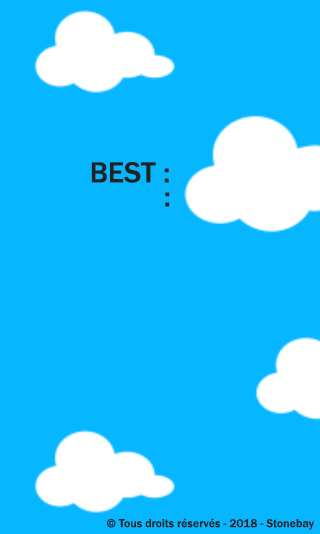
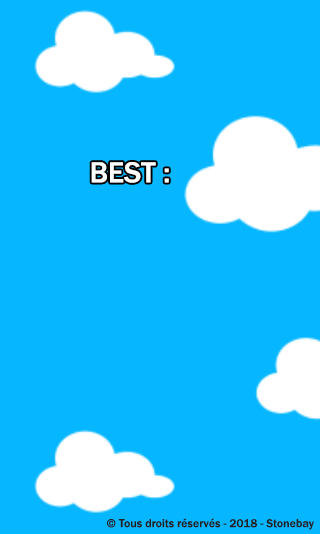
Ajouts de enemies + tire etc

Changed region(s): [[0.2812, 0.2996, 0.5312, 0.3895]]

diff --git a/www/src/Game.js b/www/src/Game.js
@@ -13,6 +13,7 @@ Ball.Game.prototype = {
 		lock = 1;
 		lock22 = 1;
 		lock21 = 0;
+		ammo = 10;
 		rec1 = this.game.add.graphics(0,0);
 		rec1.beginFill(0xffffff);
 		rec1.drawRect(0, 0, 160, 534);
@@ -33,30 +34,41 @@ Ball.Game.prototype = {
 		}
 		if(!pieces){
 			pieces = 0;
-			text3 = this.add.bitmapText(230, 30, 'myfont', '0', 30);
+			text3 = this.add.text(225, 25, '0', { font: '27px Arial Black', fill: '#FBDE12', strokeThickness :'4',fontWeight:'bold',boundsAlignH: 'right',boundsAlignV: 'top'});
 		}
 		else{
-			text3 = this.add.bitmapText(230, 30, 'myfont', localStorage.pieces, 30);
+			text3 = this.add.text(225, 25, localStorage.pieces, { font: '27px Arial Black', fill: '#FBDE12', strokeThickness :'4',fontWeight:'bold',boundsAlignH: 'right',boundsAlignV: 'top'});
 		}
-		text = this.add.bitmapText(5, 5, 'myfont', '0', 60);
-		text2 = this.add.bitmapText(230, 1, 'myfont', highscore, 32);
+		text3.setTextBounds(0,0,0,0);
+		text = this.add.text(5, -10, '0', { font: '60px Arial', fill: '#fff', strokeThickness :'6',fontWeight:'bold'  });
+		text2 = this.add.text(230, -3, highscore, { font: '27px Arial Black', fill: '#06b6ff', strokeThickness :'4',fontWeight:'bold'  });
 		best = this.add.text(10, 60, ' ');
 		best.scale.setTo(0.5);
-		text3.tint = 0xaf9e00;
-		coin2 = this.add.sprite(193, 35, 'coin');
-		// coin2.animations.add('turn2', [0,1,2,3,4,5], 9, true);
-		// coin2.play('turn2');
+		coin2 = this.add.sprite(230, 38, 'coin');
+		coin2.animations.add('turn2', [0,1,2,3,4,5], 9, true);
+		coin2.play('turn2');
 		coin2.smoothed = false;
+		text4 = this.add.text(20, 75, ammo, { font: '22px Arial', fill: '#000',boundsAlignH: 'right',boundsAlignV: 'top'});
+		text4.setTextBounds(0,0,0,0);
+		ammoAff = this.add.sprite(3,85,'particle');
+		ammoAff.scale.setTo(1.3);
 		
 		this.physics.startSystem(Phaser.Physics.ARCADE);
 		this.time.desiredFps = 60;
 		this.physics.arcade.gravity.y = 700;
 		
-		coin = this.add.sprite(16+this.getRandomInt(304), 70+this.getRandomInt(403), 'coin');
+		coin = this.add.sprite(400, 70+this.getRandomInt(403), 'coin');
 		this.physics.arcade.enable(coin);
 		coin.body.allowGravity = false;
 		coin.animations.add('turn', [0,1,2,3,4,5], 9, true);
 		coin.play('turn');
+		this.game.time.events.add(5000+Math.floor(Math.random() * Math.floor(5000)), function() {coin.x = 16+Math.floor(Math.random() * Math.floor(304));},coin)
+		
+		am = this.add.sprite(400, 70+this.getRandomInt(403), 'particle');
+		this.physics.arcade.enable(am);
+		am.body.allowGravity = false;
+		am.scale.setTo(1.5);
+		this.game.time.events.add(5000+Math.floor(Math.random() * Math.floor(5000)), function() {am.x=16+Math.floor(Math.random() * Math.floor(304))},am)
 		
 		player = this.add.sprite(10, 0, 'player');
 		mult = (skin-1)*12;
@@ -75,6 +87,17 @@ Ball.Game.prototype = {
 		
 		cursors = this.input.keyboard.createCursorKeys();
 		player.body.velocity.x = -300;
+		
+		enemy = this.add.sprite(500, 0, 'player');
+		rightEnemy = enemy.animations.add('rightEnemy', [0], 0, true);
+		leftEnemy = enemy.animations.add('leftEnemy', [6], 0, true);
+		enemy.smoothed = true;
+		enemy.tint = 0xFF5555 ;
+		enemy.scale.set(1.5);
+		this.physics.arcade.enable(enemy);
+		enemy.checkWorldBounds = true;
+		enemy.events.onOutOfBounds.add(function() {this.game.time.events.add(5000+Math.floor(Math.random() * Math.floor(5000)), this.spawnEnemy,enemy)}, this);
+
 		
 		platforms = this.add.group();
 		ledge = platforms.create(0, 52, 'platform');
@@ -101,8 +124,7 @@ Ball.Game.prototype = {
 		weapon.bulletSpeed = 600;
 		weapon.fireRate = 100;
 		weapon.trackSprite(player, 15, 15, false);
-		weapon.bulletGravity.y = -700;
-
+		weapon.bulletGravity.y = -500;
 	},
 	listener1: function() {
 		if(player.body.touching.down && player.x >168){
@@ -113,7 +135,11 @@ Ball.Game.prototype = {
 			}
 		}
 		else{
-			weapon.fire();
+			if(ammo>0){
+				weapon.fire();
+				ammo--;
+				text4.setText(ammo);
+			}
 		}
 	},
 	listener2: function() {
@@ -125,7 +151,11 @@ Ball.Game.prototype = {
 			}
 		}
 		else{
-			weapon.fire();
+			if(ammo>0){
+				weapon.fire();
+				ammo--;
+				text4.setText(ammo);
+			}
 		}
 	},
 	createPlat: function() {
@@ -147,15 +177,16 @@ Ball.Game.prototype = {
 		this.game.time.events.add(time, this.createPlat,this);
 	},
 	onCollision: function(piece) {
-		if(coin.alpha == 1){
-			pieces += 1;
-			text3.setText(pieces);
-			emitter2.x = piece.x;
-			emitter2.y = piece.y+30;
-			emitter2.start(true, 2000, null, 10);
-			piece.x = 16+this.getRandomInt(304);
-			piece.y = 70+this.getRandomInt(403);
-		}
+		pieces += 1;
+		text3.setText(pieces);
+		emitter2.x = piece.x;
+		emitter2.y = piece.y;
+		emitter2.start(true, 2000, null, 10);
+		piece.x=400;
+		this.game.time.events.add(5000+Math.floor(Math.random() * Math.floor(5000)),function(){
+					piece.x = 16+Math.floor(Math.random() * Math.floor(304));
+					piece.y = 70+Math.floor(Math.random() * Math.floor(403));
+			},am);
 	},
 	checkOverlap: function(spriteA,spriteB) {
 		var boundsA = spriteA.getBounds();
@@ -169,20 +200,37 @@ Ball.Game.prototype = {
 	onCollisionLedge: function(plr,platform) {
 		if(platform.tint==16777215&& player.body.touching.down){
 			platform.tint = 0x1FBDFF;
-			emitter.x = player.x;
-			emitter.y = player.y+30;
-			emitter.start(true, 2000, null, 10);
 			score++;
 			text.setText(score);
+		}
+	},
+	spawnEnemy: function() {
+		enemy.body.allowGravity = false;
+		enemy.alpha = 0;
+		this.game.add.tween(enemy).to( { alpha: 1 }, 3000, Phaser.Easing.Linear.None, true, 0, 0, false);
+		enemy.body.enable = false;
+		this.game.time.events.add(3000, function() {enemy.body.allowGravity = true;enemy.alpha = 1;enemy.body.enable = false;},enemy)
+		enemy.body.velocity.x = 0;
+		enemy.body.velocity.y = 0;
+		enemy.x = 15 + Math.floor(Math.random() * Math.floor(300));
+		enemy.y = 55;
+		if(enemy.x<=160){
+			enemy.play('rightEnemy');
+		}
+		else{
+			enemy.play('leftEnemy');
 		}
 	},
 	update: function() {
 		background.tilePosition.y += 0.5;
 		this.physics.arcade.collide(platforms, player,this.onCollisionLedge);
+		this.physics.arcade.collide(platforms, enemy);
+		this.physics.arcade.collide(weapon.bullets, enemy);
+		ammoAff.x = player.x + 20;
+		ammoAff.y = player.y - 15;
+		text4.x = player.x+15;
+		text4.y = player.y-25;
 		if(lock == 0 && player.body.touching.down){
-			emitter.x = player.x;
-			emitter.y = player.y+30;
-			emitter.start(true, 2000, null, 10);
 			if (vel == -250){
 				player.play('left');
 				lock = 1;
@@ -216,7 +264,7 @@ Ball.Game.prototype = {
 				player.play('jumpright');
 			}
 		}
-		if(player.body.blocked.down){
+		if(player.body.blocked.down ||( this.checkOverlap(player, enemy) && enemy.alive)){
 			if(score>highscore){
 				localStorage.highscore = score;
 			}
@@ -248,8 +296,21 @@ Ball.Game.prototype = {
 			}
 			lock22 = 1;
 		}
-		if (this.checkOverlap(weapon.bullets, coin)&& coin.alive){
+		if (this.checkOverlap(player, coin)&& coin.alive){
 			this.onCollision(coin);
+		}
+		if (this.checkOverlap(player, am)&& am.alive){
+			ammo += 5;
+			text4.setText(ammo);
+			emitter.x = am.x;
+			emitter.y = am.y;
+			emitter.start(true, 2000, null, 10);
+			am.x = 400;
+			this.game.time.events.add(5000+Math.floor(Math.random() * Math.floor(5000)),function(){
+					am.x = 16+Math.floor(Math.random() * Math.floor(304));
+					am.y = 70+Math.floor(Math.random() * Math.floor(403));
+			},am);
+			
 		}
 	},
 	render: function() {

diff --git a/www/src/MainMenu.js b/www/src/MainMenu.js
@@ -33,11 +33,11 @@ Ball.MainMenu.prototype = {
 		if(!pieces){
 			pieces = "0";
 		}
-		text2 = this.add.bitmapText(180, 155, 'myfont', highscore, 32);
-		text3 = this.add.bitmapText(180, 185, 'myfont', pieces, 32);
-		text3.tint = 0xaf9e00;
-		coin = this.add.sprite(133, 187, 'coin');
-		coin.scale.setTo(1.5);;
+		text2 = this.add.text(180, 153, highscore, { font: '27px Arial Black', fill: '#06b6ff', strokeThickness :'4',fontWeight:'bold'  });
+		text3 = this.add.text(178, 183, pieces, { font: '27px Arial Black', fill: '#FBDE12', strokeThickness :'4',fontWeight:'bold',boundsAlignH: 'right',boundsAlignV: 'top' });
+		text3.setTextBounds(0,0,0,0);
+		coin = this.add.sprite(183, 193, 'coin');
+		coin.scale.setTo(1.2);
 		coin.animations.add('turn', [0,1,2,3,4,5], 9, true);
 		coin.play('turn');
 

diff --git a/www/src/Preloader.js b/www/src/Preloader.js
@@ -11,7 +11,6 @@ Ball.Preloader.prototype = {
 		this.load.image('screen-howtoplay', 'img/screen-howtoplay.png');
 		this.load.image('platform', 'img/plat.png');
 		this.load.image('screen-bg', 'img/screen-bg.png');
-		this.load.bitmapFont('myfont', 'font/font.png', 'font/font.fnt');
 		
 		this.load.spritesheet('coin', 'img/coin.png',16,16);
 		this.load.spritesheet('selec', 'img/selection.png', 100, 100);
